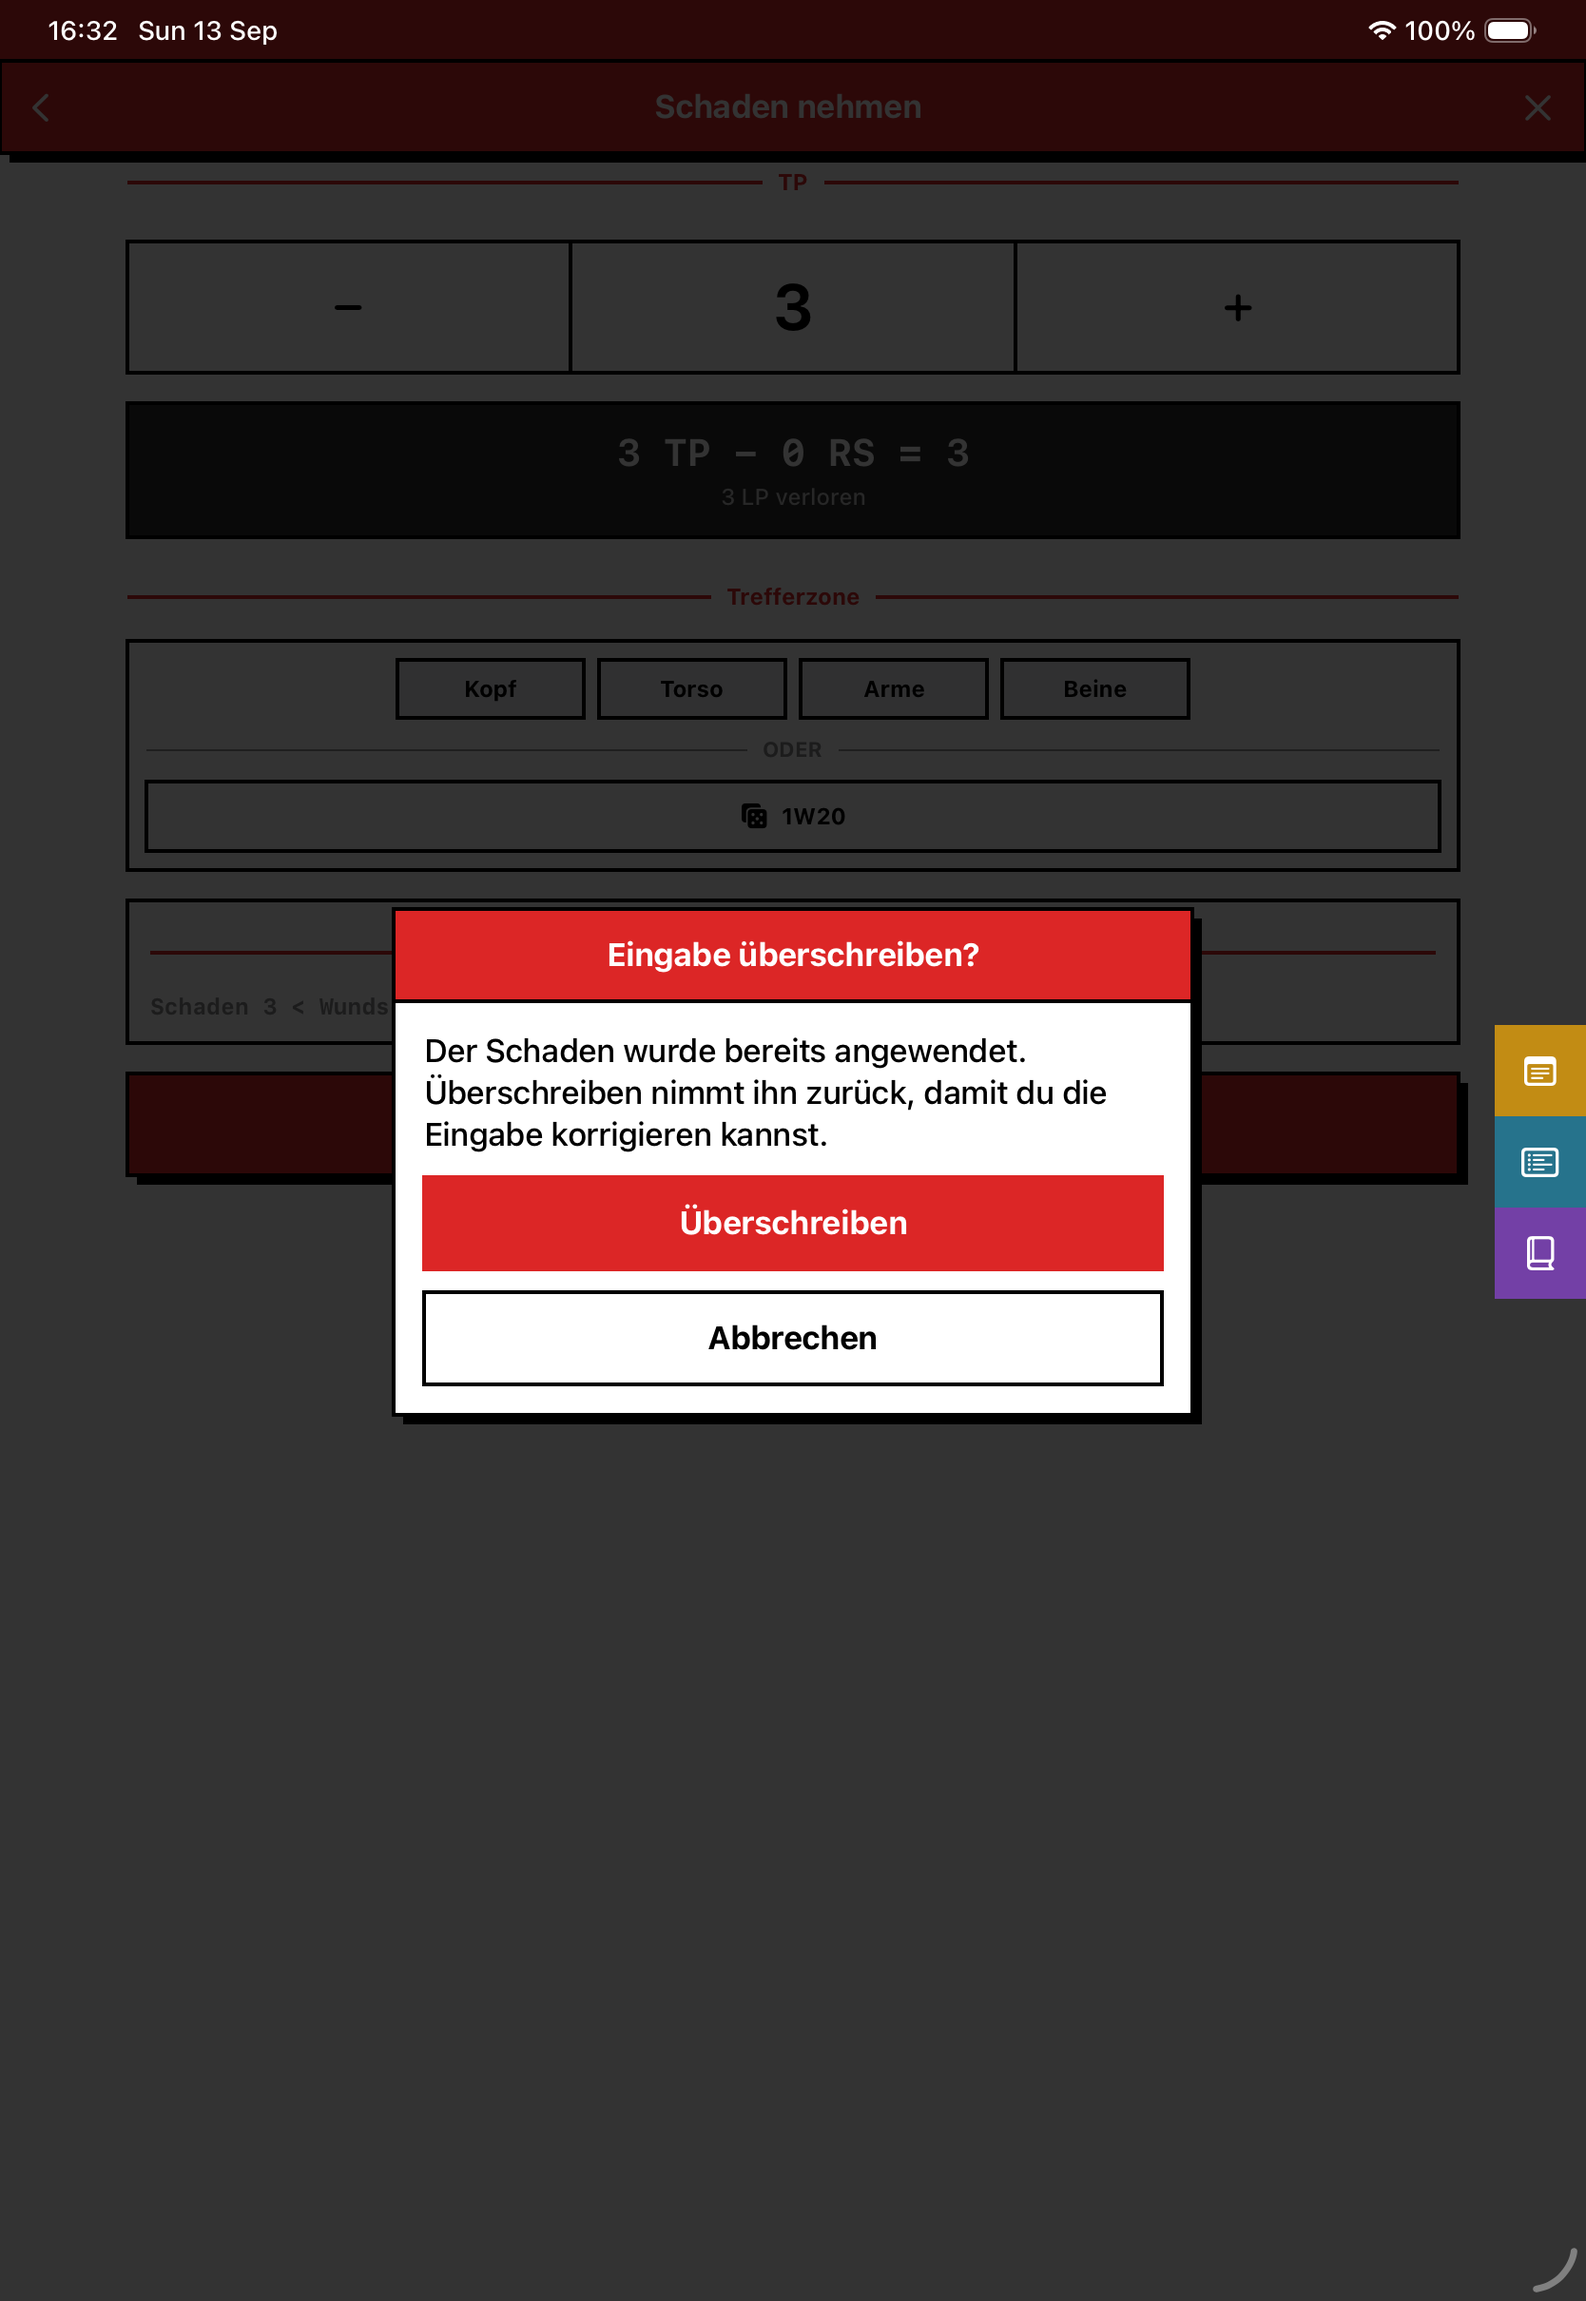
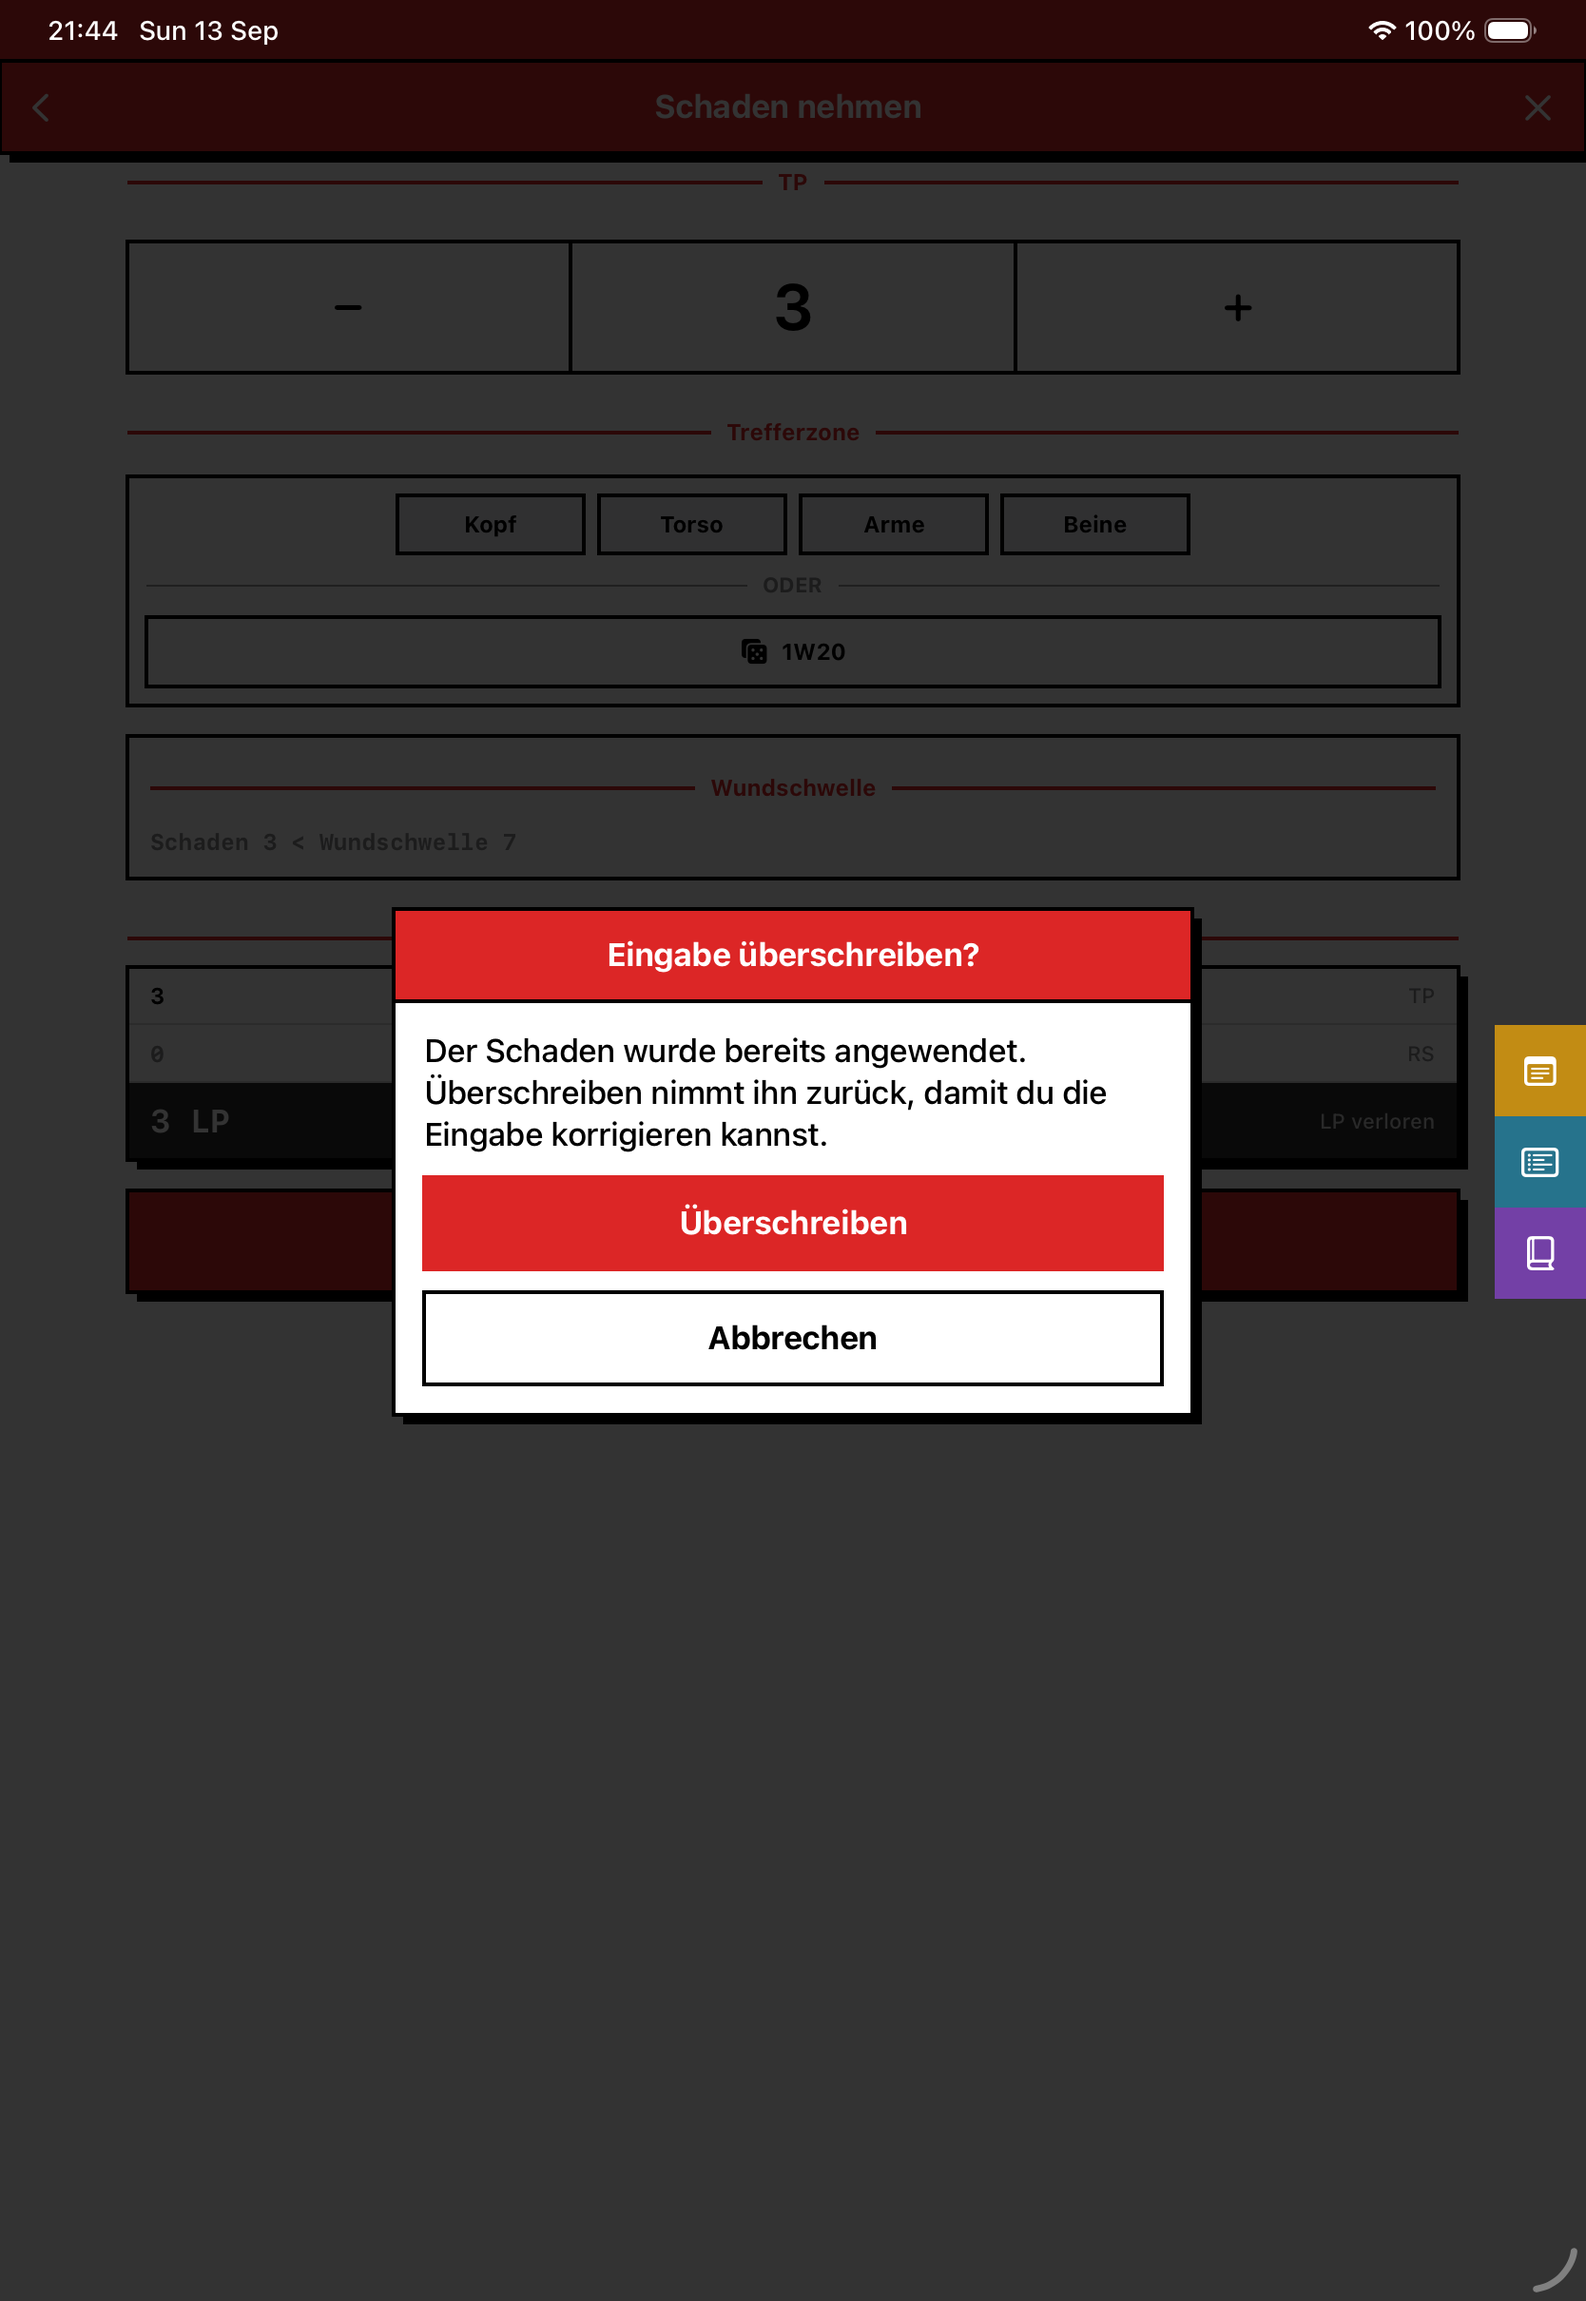
docs(screenshots): regenerate the stale captures
23 screenshots still showed the app as it was two rounds ago — before the
action groups, the row-based take-damage calculation, the inset adventure
heading and the Wuchtschlag tiers. Every class that draws them was re-run.

One fix came out of looking at them: a zero in a signed row was printed in
the penalty colour, so "RS 0" on the take-damage screen read as something
the armour had cost. Zero is neither a bonus nor a penalty and is now
neutral.

264 unit tests pass; the UI classes were re-run in chunks.

Changed region(s): [[0.0624, 0.155, 0.9353, 0.5888], [0.0624, 0.4649, 0.2494, 0.5888], [0.0312, 0.0, 0.0624, 0.031]]

diff --git a/Hesindion/Views/CombatBreakdownBox.swift b/Hesindion/Views/CombatBreakdownBox.swift
@@ -9,11 +9,15 @@ struct BreakdownRow: Identifiable {
     var tint: Color = .primary
 
     /// A signed contribution, tinted by its sign the way the AT breakdown does.
+    ///
+    /// Zero is neither: an RS of 0 is worth stating on the take-damage screen —
+    /// the armour did nothing — but it is not a penalty, and printing it in the
+    /// penalty colour said it was.
     static func signed(_ value: Int, _ source: String) -> BreakdownRow {
         BreakdownRow(
             value: value > 0 ? "+\(value)" : "\(value)",
             source: source,
-            tint: value > 0 ? Color.dsaPositive : Color.groupCombat
+            tint: value == 0 ? .secondary : (value > 0 ? Color.dsaPositive : Color.groupCombat)
         )
     }
 
